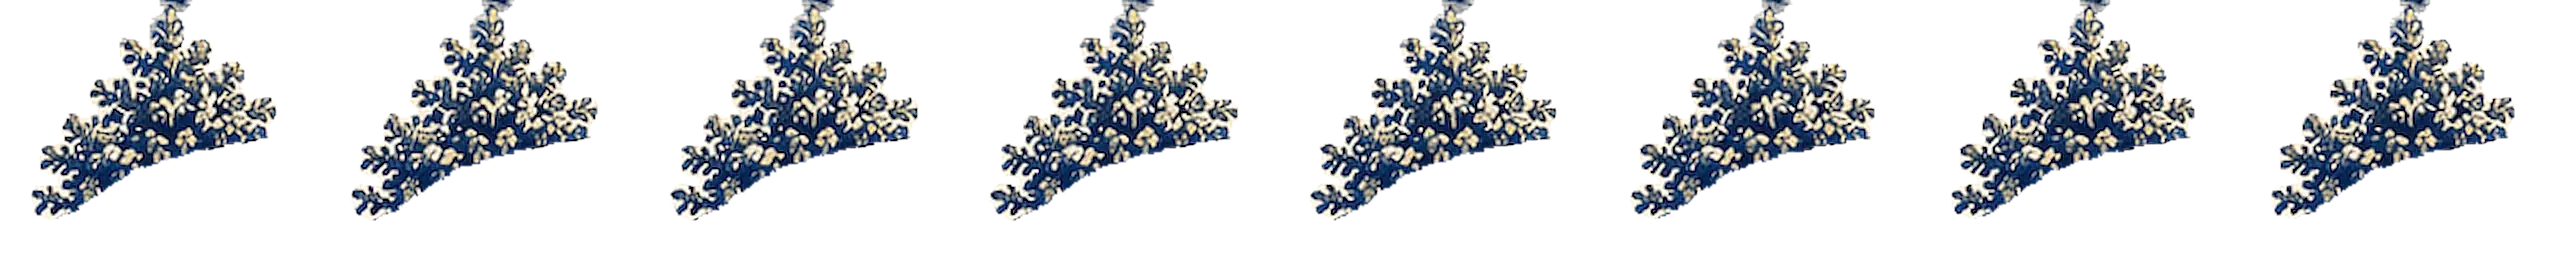
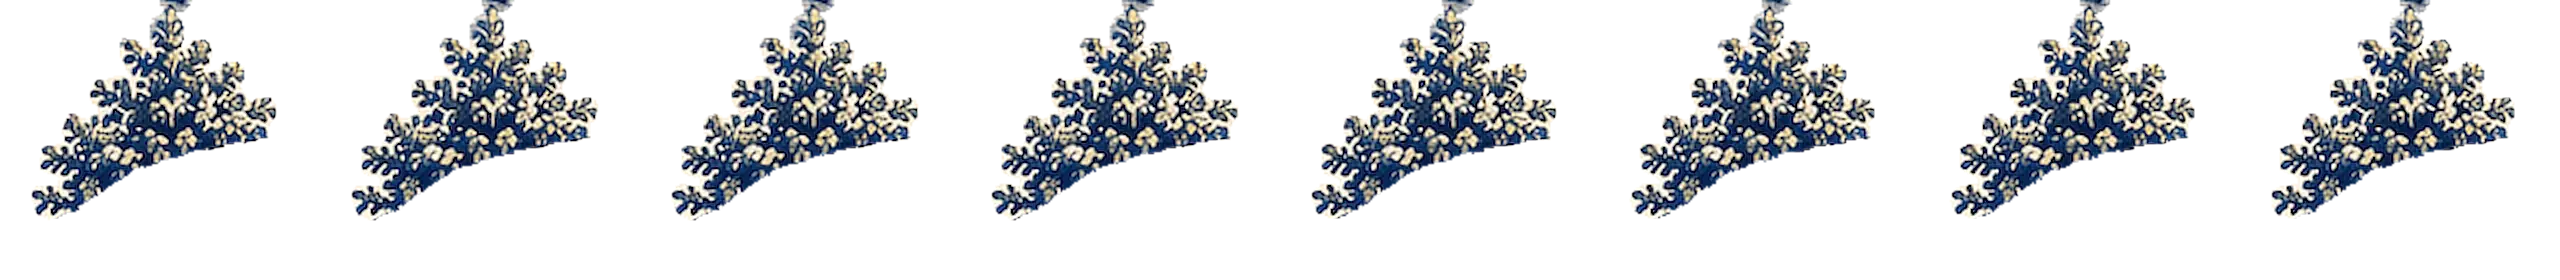
fix(design): fade the tremble of the leaves towards the trunk like the sway

diff --git a/design/leaves.py b/design/leaves.py
@@ -1,7 +1,9 @@
 # Frames of a gust of wind in the foliage on the courtyard map: the same pixels, the crown sways
-# from the trunk (the top more), the leaves tremble. A frame «at rest» is not needed: at rest the
-# layer is hidden. Pixels are taken bicubically (Catmull-Rom) so the hatching does not blur; the
-# frames are then enlarged 2× the same way as the map (see asset-prompt.txt, «Обработка»).
+# from the trunk (the top more) and the leaves tremble; both fade to nothing at the bottom of the
+# crown, so the trunk there stays still where the map goes on below the frame. A frame «at rest» is
+# not needed: at rest the layer is hidden. Pixels are taken bicubically (Catmull-Rom) so the
+# hatching does not blur; the frames are then enlarged 2× the same way as the map (see
+# asset-prompt.txt, «Обработка»).
 # Only the foliage moves. It is a layer: dense ink inside a polygon that keeps out what stands next
 # to the plant (the rim of the fountain, a pot, a wall, a beam, a roof, barrels, flowers), with its
 # small holes filled. The strip of ground it uncovers is filled from the ground beside it; outside
@@ -108,8 +110,8 @@ for name, ((x0, y0, x1, y1), poly, base, amp, largest_hole) in REGIONS.items():
     drawn, most = [], 0.0
     for i, e in enumerate(ENV):
         ph = 2 * np.pi * i / len(ENV)
-        dx = mk * (amp * e * h * (1 + 0.35 * np.sin(2 * np.pi * xx / 70 + yy / 40)) + 0.6 * np.sin(2 * np.pi * (xx / 17 + yy / 23) - ph))
-        dy = mk * 0.5 * np.sin(2 * np.pi * (xx / 21 - yy / 19) - ph)
+        dx = mk * h * (amp * e * (1 + 0.35 * np.sin(2 * np.pi * xx / 70 + yy / 40)) + 0.6 * np.sin(2 * np.pi * (xx / 17 + yy / 23) - ph))
+        dy = mk * h * 0.5 * np.sin(2 * np.pi * (xx / 21 - yy / 19) - ph)
         sx, sy = np.clip(xx - dx, 0, W - 1), np.clip(yy - dy, 0, H - 1)
         c = np.clip(cubic(cover, sx, sy), 0, 1)
         rgb = np.clip(cubic(layer, sx, sy), 0, 255) + ground * (1 - c[..., None])
